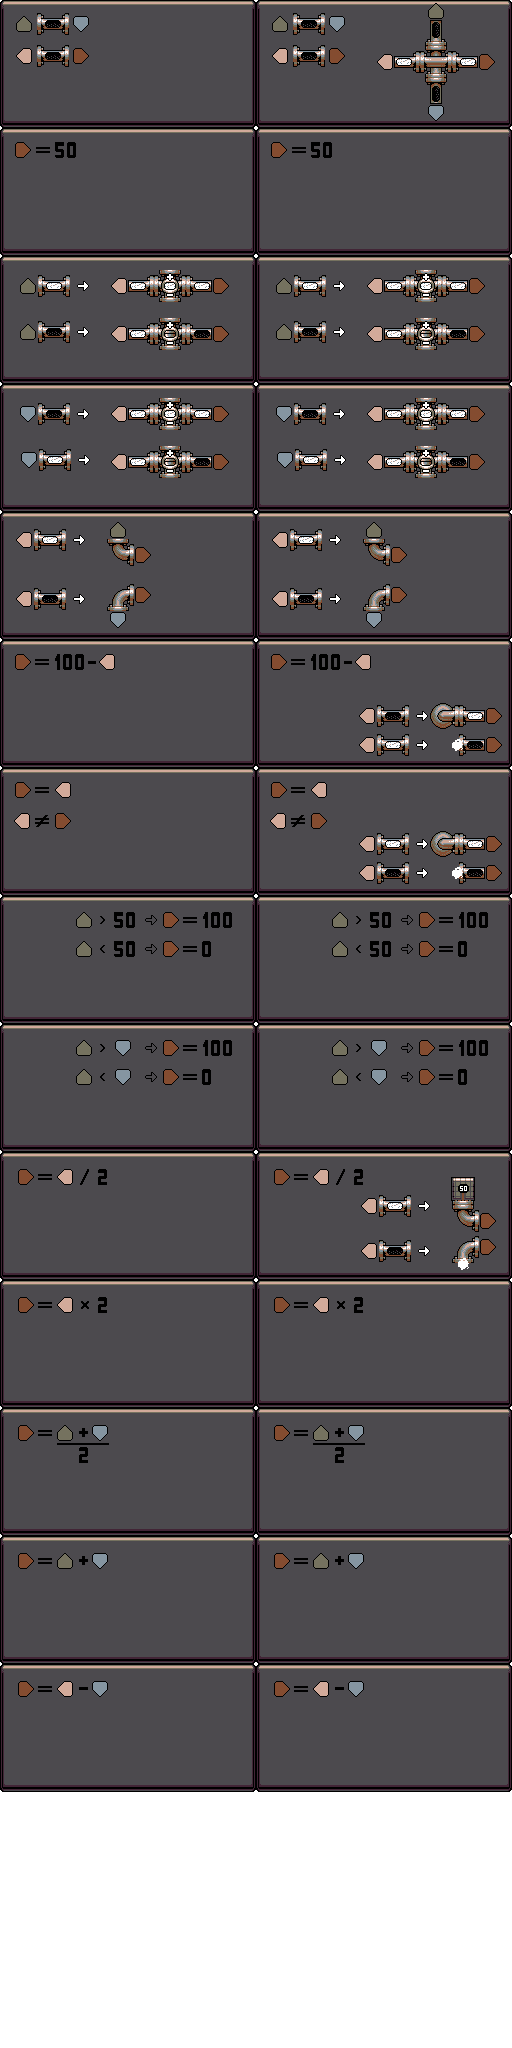
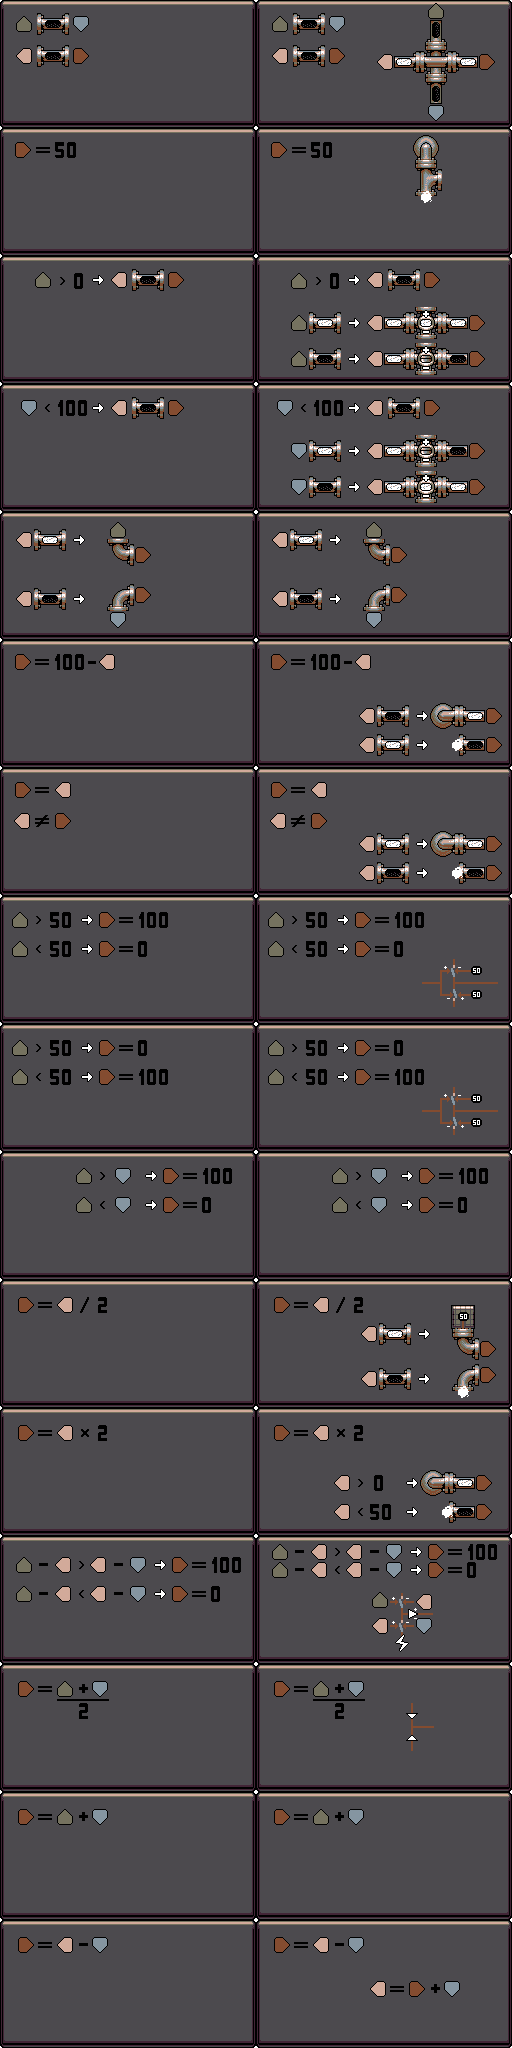
Rework levels

diff --git a/Level.cpp b/Level.cpp
@@ -135,7 +135,7 @@ void Level::init_tests(SaveObjectMap* omap)
     switch(level_index)
     {
         case 0:
-            connection_mask = CONMASK_N | CONMASK_W | CONMASK_E | CONMASK_S;
+            connection_mask = CONMASK_N | CONMASK_W | CONMASK_E | CONMASK_S;            // Cross
             pin_order[0] = 3; pin_order[1] = 0; pin_order[2] = 1; pin_order[3] = 2;
             substep_count = 2000;
 
@@ -160,7 +160,7 @@ void Level::init_tests(SaveObjectMap* omap)
             NEW_POINT(  0,  0,  0,  0);
             break;
 
-        case 1:
+        case 1:                                                                     // 50
             connection_mask = CONMASK_E;
             substep_count = 2000;
             NEW_TEST;
@@ -173,7 +173,7 @@ void Level::init_tests(SaveObjectMap* omap)
             NEW_POINT(  0, 50,  0,  0);
             break;
 
-        case 2:
+        case 2:                                                                     // NPN
             connection_mask = CONMASK_N | CONMASK_W | CONMASK_E;
             substep_count = 3000;
 
@@ -195,7 +195,7 @@ void Level::init_tests(SaveObjectMap* omap)
             NEW_POINT(100, 50,  0, 50);
             break;
 
-        case 3:
+        case 3:                                                                     // PNP
             connection_mask = CONMASK_S | CONMASK_W | CONMASK_E;
             substep_count = 2000;
 
@@ -217,7 +217,7 @@ void Level::init_tests(SaveObjectMap* omap)
             NEW_POINT(  0, 50,  0, 50);
             break;
 
-        case 4:
+        case 4:                                                                     // select
             connection_mask = CONMASK_N | CONMASK_W | CONMASK_E | CONMASK_S;
             level_version = 2;
 
@@ -257,7 +257,7 @@ void Level::init_tests(SaveObjectMap* omap)
             break;
 
 
-        case 5:
+        case 5:                                                                     // Inv
             connection_mask = CONMASK_W | CONMASK_E;
 
             NEW_TEST;// N   E   S   W
@@ -299,7 +299,7 @@ void Level::init_tests(SaveObjectMap* omap)
             break;
 
 
-        case 6:
+        case 6:                                                                 // Buf
             connection_mask = CONMASK_W | CONMASK_E;
 
             NEW_TEST;// N   E   S   W
@@ -343,7 +343,7 @@ void Level::init_tests(SaveObjectMap* omap)
             NEW_POINT(  0,100,  0,  0);
             break;
 
-        case 7:
+        case 7:                                                                 // amp
             connection_mask = CONMASK_W | CONMASK_E;
 
             NEW_TEST;// N   E   S   W
@@ -378,7 +378,39 @@ void Level::init_tests(SaveObjectMap* omap)
             NEW_POINT(  0,100,  0, 60);
             break;
 
-        case 8:
+        case 8:                                                             // amp inv
+            connection_mask = CONMASK_W | CONMASK_E;
+
+            NEW_TEST;// N   E   S   W
+            NEW_POINT(  0,  0,  0,  0);
+            NEW_POINT(  0,  0,  0,100);
+            NEW_TEST;
+            NEW_POINT(  0,  0,  0,100);
+            NEW_POINT(  0,100,  0, 10);
+            NEW_TEST;
+            NEW_POINT(  0,100,  0, 10);
+            NEW_POINT(  0,  0,  0, 90);
+            NEW_TEST;
+            NEW_POINT(  0,  0,  0, 90);
+            NEW_POINT(  0,100,  0, 20);
+            NEW_TEST;
+            NEW_POINT(  0,100,  0, 20);
+            NEW_POINT(  0,  0,  0, 80);
+            NEW_TEST;
+            NEW_POINT(  0,  0,  0, 80);
+            NEW_POINT(  0,100,  0, 30);
+            NEW_TEST;
+            NEW_POINT(  0,100,  0, 30);
+            NEW_POINT(  0,  0,  0, 70);
+            NEW_TEST;
+            NEW_POINT(  0,  0,  0, 70);
+            NEW_POINT(  0,100,  0, 40);
+            NEW_TEST;
+            NEW_POINT(  0,100,  0, 40);
+            NEW_POINT(  0,  0,  0, 60);
+            break;
+
+        case 9:                                                             // op amp
             connection_mask = CONMASK_N | CONMASK_S | CONMASK_E;
             level_version = 1;
 
@@ -420,7 +452,7 @@ void Level::init_tests(SaveObjectMap* omap)
             NEW_POINT(100,100, 95,  0);
             break;
 
-        case 9:
+        case 10:                                                        // div 2
             connection_mask = CONMASK_W | CONMASK_E;
             level_version = 2;
 
@@ -463,7 +495,7 @@ void Level::init_tests(SaveObjectMap* omap)
             break;
 
 
-        case 10:
+        case 11:                                                        // mul 2
             connection_mask = CONMASK_W | CONMASK_E;
 
             NEW_TEST;// N   E   S   W
@@ -492,8 +524,49 @@ void Level::init_tests(SaveObjectMap* omap)
             NEW_POINT(  0,  0,  0,  0);
             break;
 
+        case 12:                                                    // zoom amplify
+            substep_count = 30000;
+            connection_mask = CONMASK_N | CONMASK_W | CONMASK_E | CONMASK_S;
 
-        case 11:
+            NEW_TEST;// N   E   S   W
+            NEW_POINT(100,  0,  0,  0);
+            NEW_POINT(100,  0,  0,  0);
+            NEW_TEST;
+            NEW_POINT(100,  0,  0,  0);
+            NEW_POINT(100,100,  0,100);
+            NEW_TEST;
+            NEW_POINT(100,100,  0,100);
+            NEW_POINT(100,  0, 50, 50);
+            NEW_TEST;
+            NEW_POINT(100,  0, 50, 50);
+            NEW_POINT( 90,100, 50, 80);
+            NEW_TEST;
+            NEW_POINT( 90,100, 50, 80);
+            NEW_POINT( 90,  0, 50, 60);
+            NEW_TEST;
+            NEW_POINT( 90,  0, 50, 60);
+            NEW_POINT( 80,100, 20, 60);
+            NEW_TEST;
+            NEW_POINT( 80,100, 20, 60);
+            NEW_POINT( 80,  0, 20, 40);
+            NEW_TEST;
+            NEW_POINT( 80,  0, 20, 40);
+            NEW_POINT( 80,100, 30, 60);
+            NEW_TEST;
+            NEW_POINT( 80,100, 30, 60);
+            NEW_POINT(100,  0,  0, 45);
+            NEW_TEST;
+            NEW_POINT(100,  0,  0, 45);
+            NEW_POINT(100,100,  0, 55);
+            NEW_TEST;
+            NEW_POINT(100,100,  0, 55);
+            NEW_POINT( 60,100, 45, 55);
+            NEW_TEST;
+            NEW_POINT( 60,100, 45, 55);
+            NEW_POINT( 60,  0, 45, 50);
+            break;
+
+        case 13:
             substep_count = 30000;
             connection_mask = CONMASK_N | CONMASK_S | CONMASK_E;
 
@@ -530,7 +603,7 @@ void Level::init_tests(SaveObjectMap* omap)
             break;
 
 
-        case 12:
+        case 14:
             substep_count = 30000;
             connection_mask = CONMASK_N | CONMASK_S | CONMASK_E;
 
@@ -575,7 +648,7 @@ void Level::init_tests(SaveObjectMap* omap)
             NEW_POINT( 10, 10,  0,  0);
             break;
 
-        case 13:
+        case 15:
             substep_count = 50000;
             connection_mask = CONMASK_W | CONMASK_S | CONMASK_E;
             NEW_TEST;// N   E   S   W

diff --git a/GameState.cpp b/GameState.cpp
@@ -1289,7 +1289,7 @@ void GameState::render()
             }
             pages[] =
             {
-                {XYPos(0,14), 4, 1, "In the level select menu, the bottom panel describes\nthe design requirements. Each design has four ports\nand the requirements state the expected output in\nterms of other ports. Each port has a colour\nidentifier."},
+                {XYPos(0,14), 4, 1, "In the level select menu, the bottom panel describes\nthe design requirements. Each design has four ports\nand the requirements state the expected output in\nterms of other ports. Each port has a colour\nidentifier. Click on the requirements to show a hint."},
                 {XYPos(0,13),5,0.5, "Once you achieve a score of 75 or more, the next\ndesign becomes available. You can always come back\nto refine your solution.\n\nPress the pipe button below to continue the\ntutorial. You can return to the help by pressing F1."},
                 {XYPos(0,0), 10, 1, "Use left mouse button to place pipes. The pipe will\nextend in the direction of the mouse. Right click to\nexit pipe laying mode."},
                 {XYPos(0,2),  5, 1, "Hold the right mouse button to delete pipes and\nother elements."},

diff --git a/Circuit.cpp b/Circuit.cpp
@@ -350,16 +350,16 @@ void CircuitElementValve::sim_pre(PressureAdjacent adj_)
 
     pressure = (adj.E.value + adj.W.value) / 2;
 
-    mov = (pos_charge - adj.N.value * capacity) / (4 * capacity);
+    mov = (pos_charge - adj.N.value * capacity) / (2 * capacity);
     pos_charge -= mov;
     adj.N.move(mov);
     
-    mov = (neg_charge - adj.S.value * capacity) / (4 * capacity);
+    mov = (neg_charge - adj.S.value * capacity) / (2 * capacity);
     neg_charge -= mov;
     adj.S.move(mov);
     
                                                             // base resistence is 10 pipes
-    mov = (int64_t(adj.W.value - adj.E.value) * mul) / (int64_t(100) * 4 * resistence * capacity * PRESSURE_SCALAR);
+    mov = (int64_t(adj.W.value - adj.E.value) * mul) / (int64_t(100) * 2 * resistence * capacity * PRESSURE_SCALAR);
     adj.W.move(-mov);
     adj.E.move(mov);
     moved = mov;

diff --git a/Circuit.h b/Circuit.h
@@ -191,7 +191,7 @@ public:
 class CircuitElementValve : public CircuitElement
 {
     const int capacity = 2;
-    const int resistence = 4;
+    const int resistence = 8;
 
     Pressure pos_charge = 0;
     Pressure neg_charge = 0;
